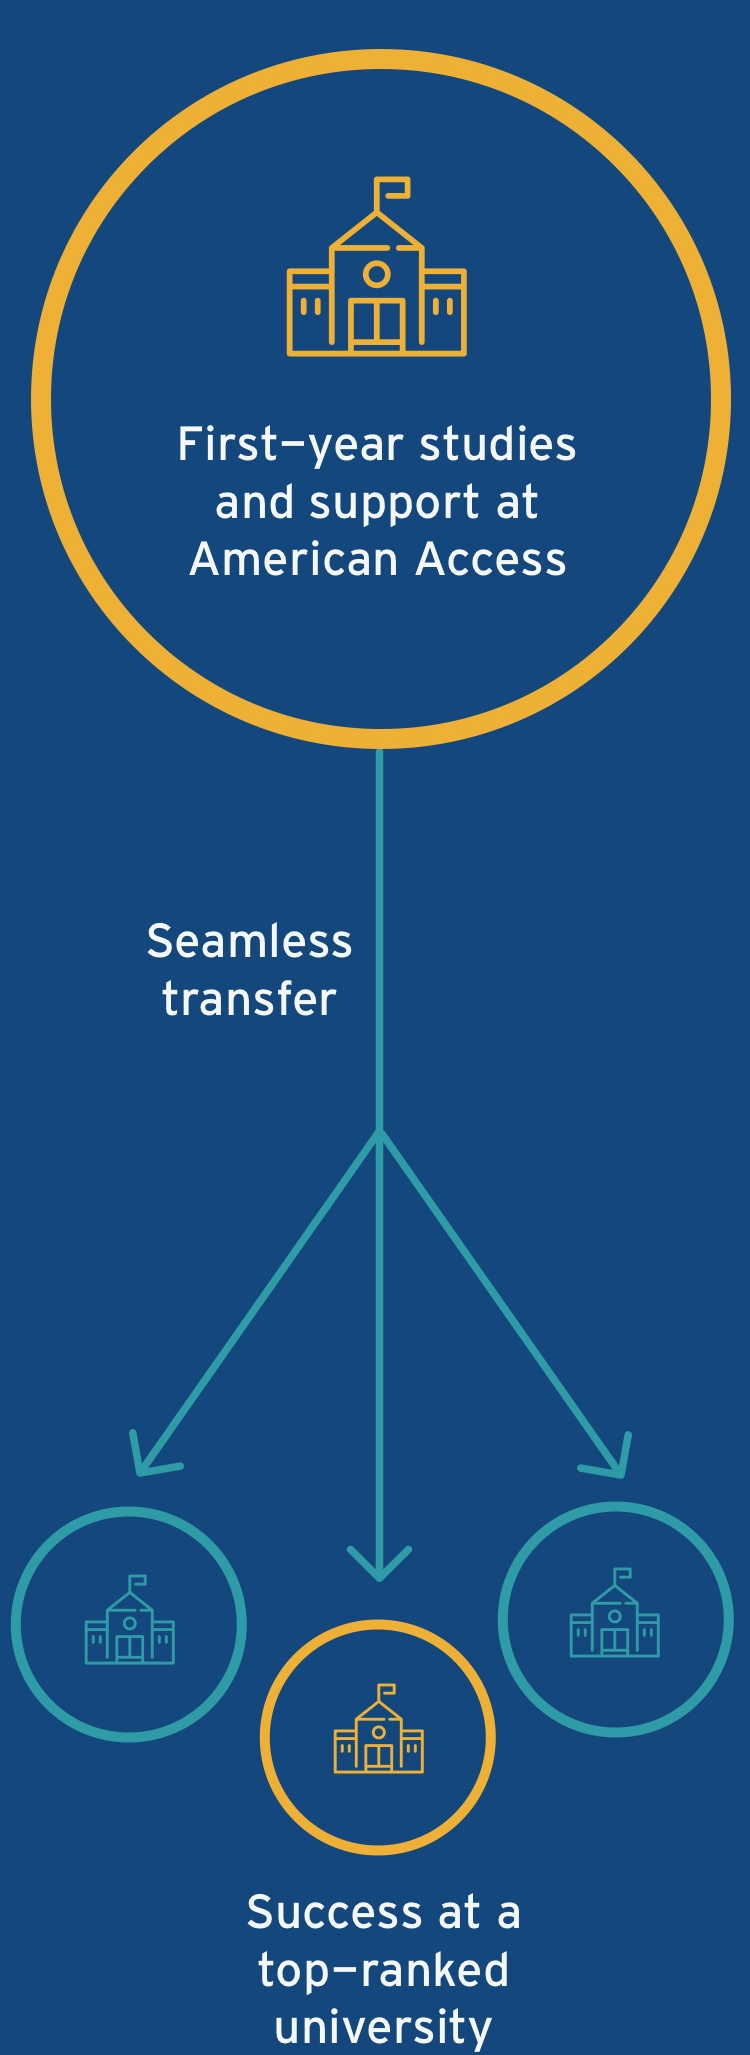
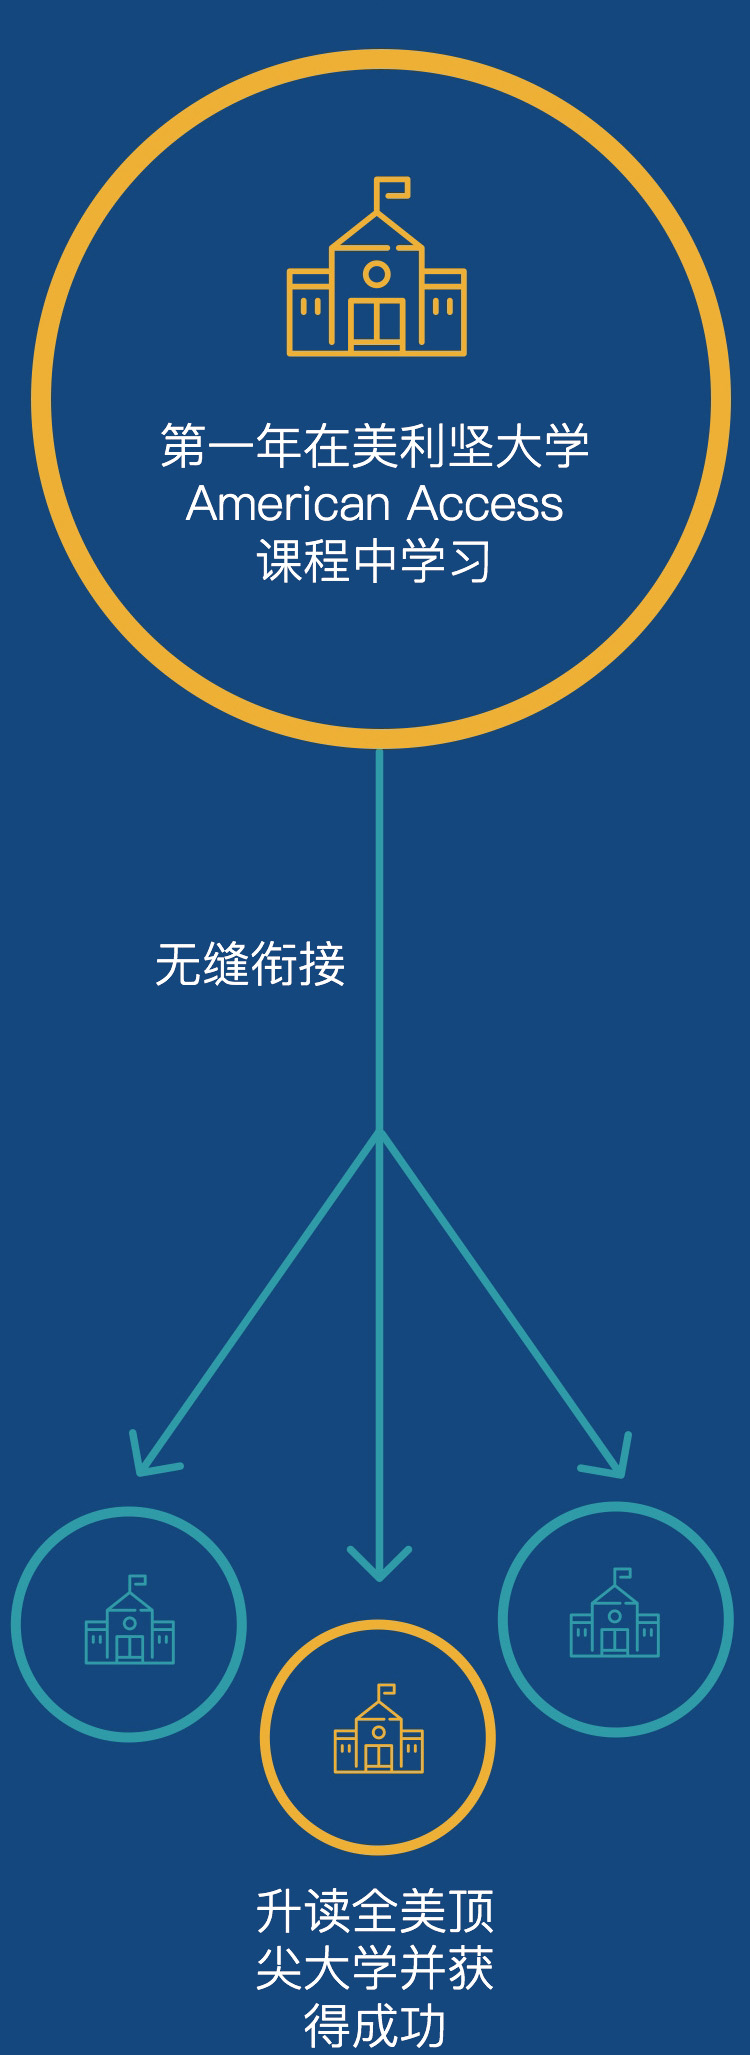
no message

diff --git a/aa/index.html b/aa/index.html
@@ -89,7 +89,8 @@ height="0" width="0" style="display:none;visibility:hidden"></iframe></noscript>
 <li id="menu-item-450" class="menu-item menu-item-type-post_type menu-item-object-page menu-item-450"><a href="get-brochure/index.html">下载国际学生指南</a></li>
 </ul></nav>    </div>
 </section>
-                                    <!-- <section id="header-content" class="container disable-padding">
+
+<section id="header-content" class="container disable-padding">
     <nav id="main-menu" class="main-menu"><ul id="menu-main-menu" class="menu"><li id="menu-item-493" class="menu-item menu-item-type-post_type menu-item-object-page menu-item-home current-menu-item page_item page-item-2 current_page_item menu-item-493"><a href="index.html">Home</a></li>
 <li id="menu-item-175" class="menu-item menu-item-type-post_type menu-item-object-page menu-item-175"><a href="about/index.html">About</a></li>
 <li id="menu-item-239" class="menu-item menu-item-type-post_type menu-item-object-page menu-item-239"><a href="life-in-dc/index.html">Life in DC</a></li>
@@ -99,8 +100,10 @@ height="0" width="0" style="display:none;visibility:hidden"></iframe></noscript>
 <li id="menu-item-363" class="housing menu-item menu-item-type-post_type menu-item-object-page menu-item-363"><a href="housing-dining/index.html">Housing</a></li>
 <li id="menu-item-645" class="welcome menu-item menu-item-type-post_type menu-item-object-page menu-item-645"><a href="before-you-arrive/index.html">Before you arrive</a></li>
 <li id="menu-item-589" class="highlight menu-item menu-item-type-custom menu-item-object-custom menu-item-589"><a target="_blank" href="https://p.widencdn.net/yqyavd/AMU_Access_17_Application_Form_LR">Apply</a></li>
-</ul></nav></section> -->
+</ul></nav></section>
+
             </header>
+
     <header id="mobile-header" class="hidden-lg hidden-md headroom">
     <div class="inner">
         <div class="container">
@@ -141,7 +144,7 @@ height="0" width="0" style="display:none;visibility:hidden"></iframe></noscript>
             <div class="table">
                 <div class="table-cell">
                     <div class="page-header-content">
-                        <h1>American Access</h1>
+                        <h1><br>American Access</h1>
                         							<div class="sep"></div>
                             <h3 class="font-light">从这里起航，成功升读全美名校直接进入全美前100位顶尖大学及精英文理学院。<br />
 美国精英大学转学分项目，专为有志向的国际学生设计。在全美前100位顶尖高校起步，高起点，严要求，寻找最适合你的梦想大学！</h3>
@@ -160,14 +163,30 @@ height="0" width="0" style="display:none;visibility:hidden"></iframe></noscript>
 	</div>
 <div id="es-spacer-590354ee1e4ac" class="es-spacer"><style>#es-spacer-590354ee1e4ac { height: 36px}@media screen and (max-width: 992px) { #es-spacer-590354ee1e4ac { height: 28px} }@media screen and (max-width: 640px) { #es-spacer-590354ee1e4ac { height: 20px} }</style></div></div></div></div></div></div>
 
-<div style="background-color: #14477d; background-repeat: no-repeat; background-position: center center; background-size: cover;" class="section section-large-spacing no-spacing"><div class="container"><div class="row"><div class="column col-sm-12"><div class="column-inner" ><h2 class="h2-size text-align-center white-color">How does the American Access program work?</h2><div class="se-single-image hidden-sm hidden-xs"><img src="wp-content/uploads/2017/03/module-hiw-desktop-notext.jpg" /></div><div class="se-single-image hidden-md hidden-lg contraint-to-480"><img src="wp-content/uploads/2017/03/module-hiw-desktop-mobile-notext.jpg" /></div></div></div></div></div></div>
+<div style="background-color: #14477d; background-repeat: no-repeat; background-position: center center; background-size: cover;" class="section section-large-spacing no-spacing"><div class="container"><div class="row"><div class="column col-sm-12"><div class="column-inner" ><h2 class="h2-size text-align-center white-color">American Access 的升学流程</h2><div class="se-single-image hidden-sm hidden-xs"><img src="wp-content/uploads/2017/03/module-hiw-desktop-notext.jpg" /></div><div class="se-single-image hidden-md hidden-lg contraint-to-480"><img src="wp-content/uploads/2017/03/module-hiw-desktop-mobile-notext.jpg" /></div></div></div></div></div></div>
 
-<div style="background-color: #ffffff; background-repeat: no-repeat; background-position: center center; background-size: cover;" class="section no-spacing no-spacing"><div class="container"><div class="row"><div class="column col-sm-12"><div class="column-inner" ><div id="es-spacer-590354ee1fa6b" class="es-spacer"><style>#es-spacer-590354ee1fa6b { height: 60px}@media screen and (max-width: 992px) { #es-spacer-590354ee1fa6b { height: 30px} }@media screen and (max-width: 640px) { #es-spacer-590354ee1fa6b { height: 20px} }</style></div><h2 class="h2-size text-align-left font-bold brown-color">Your Smart Start: American Access at American University</h2><h5 class="h5-size text-align-left font-light">One of the most important reasons students choose American Access is the program’s host university. Students spend their first year learning from AU’s internationally recognized faculty. All while enjoying the vibrant, global culture of Washington, DC.</h5></div></div></div></div></div>
+<!-- <div style="background-color: #ffffff; background-repeat: no-repeat; background-position: center center; background-size: cover;" class="section no-spacing no-spacing"><div class="container"><div class="row"><div class="column col-sm-12"><div class="column-inner" ><div id="es-spacer-590354ee1fa6b" class="es-spacer"><style>#es-spacer-590354ee1fa6b { height: 60px}@media screen and (max-width: 992px) { #es-spacer-590354ee1fa6b { height: 30px} }@media screen and (max-width: 640px) { #es-spacer-590354ee1fa6b { height: 20px} }</style></div><h2 class="h2-size text-align-left font-bold brown-color">Your Smart Start: American Access at American University</h2><h5 class="h5-size text-align-left font-light">One of the most important reasons students choose American Access is the program’s host university. Students spend their first year learning from AU’s internationally recognized faculty. All while enjoying the vibrant, global culture of Washington, DC.</h5></div></div></div></div></div> -->
 
-<div style="background-color: #ffffff; background-repeat: no-repeat; background-position: center center; background-size: cover;" class="section  gray-color section-medium-spacing no-spacing section-equal-height-columns"><div class="container"><div class="row"><div class="mobile-margin column col-sm-12 col-md-4 column-centered-content"><div class="column-inner" style="background-image: url('wp-content/uploads/2017/03/smart-start-box-1-bg.jpg');" ><div class="table"><div class="table-cell"><div id="es-spacer-590354ee2058d" class="es-spacer"><style>#es-spacer-590354ee2058d { height: 120px}@media screen and (max-width: 992px) { #es-spacer-590354ee2058d { height: 80px} }@media screen and (max-width: 640px) { #es-spacer-590354ee2058d { height: 60px} }</style></div><div class="se-icon-content "><span class="icon-text font-black white-color"><sup>#</sup>74</span><p class="h6-size font-light">Ranked #74 National University<br />
-<em>(U.S. News &amp; World Report, 2017).</em></p></div><div id="es-spacer-590354ee20650" class="es-spacer"><style>#es-spacer-590354ee20650 { height: 120px}@media screen and (max-width: 992px) { #es-spacer-590354ee20650 { height: 80px} }@media screen and (max-width: 640px) { #es-spacer-590354ee20650 { height: 60px} }</style></div></div></div></div></div><div class="mobile-margin column col-sm-12 col-md-4 column-centered-content"><div class="column-inner" style="background-image: url('wp-content/uploads/2017/03/smart-start-box-2-bg.jpg');" ><div class="table"><div class="table-cell"><div id="es-spacer-590354ee20ed5" class="es-spacer"><style>#es-spacer-590354ee20ed5 { height: 120px}@media screen and (max-width: 992px) { #es-spacer-590354ee20ed5 { height: 80px} }@media screen and (max-width: 640px) { #es-spacer-590354ee20ed5 { height: 60px} }</style></div><div class="se-icon-content "><span class="icon-text font-black white-color">144</span><p class="h6-size font-light">International students at American<br />
-University come from 144 countries.</p></div><div id="es-spacer-590354ee20f94" class="es-spacer"><style>#es-spacer-590354ee20f94 { height: 120px}@media screen and (max-width: 992px) { #es-spacer-590354ee20f94 { height: 80px} }@media screen and (max-width: 640px) { #es-spacer-590354ee20f94 { height: 60px} }</style></div></div></div></div></div><div class="mobile-margin column col-sm-12 col-md-4 column-centered-content"><div class="column-inner" style="background-image: url('wp-content/uploads/2017/03/smart-start-box-3-bg.jpg');" ><div class="table"><div class="table-cell"><div id="es-spacer-590354ee2176f" class="es-spacer"><style>#es-spacer-590354ee2176f { height: 120px}@media screen and (max-width: 992px) { #es-spacer-590354ee2176f { height: 80px} }@media screen and (max-width: 640px) { #es-spacer-590354ee2176f { height: 60px} }</style></div><div class="se-icon-content  large-icon"><div class="icon-container"><img class="icon" src="wp-content/uploads/2017/03/icon-ticket.png" /></div><p class="h6-size font-light">Located in Washington, DC, close to<br />
-museums, international dining, theatres, and sports.</p></div><div id="es-spacer-590354ee21d40" class="es-spacer"><style>#es-spacer-590354ee21d40 { height: 120px}@media screen and (max-width: 992px) { #es-spacer-590354ee21d40 { height: 80px} }@media screen and (max-width: 640px) { #es-spacer-590354ee21d40 { height: 60px} }</style></div></div></div></div></div></div></div></div>
+<div style="background-color: #ffffff; background-repeat: no-repeat; background-position: center center; background-size: cover;" class="section no-spacing no-spacing"><div class="container"><div class="row"><div class="column col-sm-12"><div class="column-inner" ><div id="es-spacer-590354ee1fa6b" class="es-spacer"><style>#es-spacer-590354ee1fa6b { height: 60px}@media screen and (max-width: 992px) { #es-spacer-590354ee1fa6b { height: 30px} }@media screen and (max-width: 640px) { #es-spacer-590354ee1fa6b { height: 20px} }</style></div><h2 class="h2-size text-align-left font-bold brown-color">选择 American Access 的理由</h2></div></div></div></div></div>
+
+<div style="background-color: #ffffff; background-repeat: no-repeat; background-position: center center; background-size: cover;" class="section cola_reasons gray-color section-medium-spacing no-spacing section-equal-height-columns"><div class="container"><div class="row">
+
+<!-- <div class="mobile-margin column col-sm-12 col-md-4 column-centered-content"><div class="column-inner" style="background-image: url('wp-content/uploads/2017/03/smart-start-box-1-bg.jpg');" ><div class="table"><div class="table-cell"><div id="es-spacer-590354ee2058d" class="es-spacer"><style>#es-spacer-590354ee2058d { height: 120px}@media screen and (max-width: 992px) { #es-spacer-590354ee2058d { height: 80px} }@media screen and (max-width: 640px) { #es-spacer-590354ee2058d { height: 60px} }</style></div><div class="se-icon-content "><span class="icon-text font-black white-color"><sup>#</sup>74</span><p class="h6-size font-light">Ranked #74 National University<br />
+<em>(U.S. News &amp; World Report, 2017).</em></p></div><div id="es-spacer-590354ee20650" class="es-spacer"><style>#es-spacer-590354ee20650 { height: 120px}@media screen and (max-width: 992px) { #es-spacer-590354ee20650 { height: 80px} }@media screen and (max-width: 640px) { #es-spacer-590354ee20650 { height: 60px} }</style></div></div></div></div></div> -->
+
+<!-- <div class="mobile-margin column col-sm-12 col-md-4 column-centered-content"><div class="column-inner" style="background-image: url('wp-content/uploads/2017/03/smart-start-box-2-bg.jpg');" ><div class="table"><div class="table-cell"><div id="es-spacer-590354ee20ed5" class="es-spacer"><style>#es-spacer-590354ee20ed5 { height: 120px}@media screen and (max-width: 992px) { #es-spacer-590354ee20ed5 { height: 80px} }@media screen and (max-width: 640px) { #es-spacer-590354ee20ed5 { height: 60px} }</style></div><div class="se-icon-content "><span class="icon-text font-black white-color">144</span><p class="h6-size font-light">International students at American<br />
+University come from 144 countries.</p></div><div id="es-spacer-590354ee20f94" class="es-spacer"><style>#es-spacer-590354ee20f94 { height: 120px}@media screen and (max-width: 992px) { #es-spacer-590354ee20f94 { height: 80px} }@media screen and (max-width: 640px) { #es-spacer-590354ee20f94 { height: 60px} }</style></div></div></div></div></div> -->
+
+<!-- <div class="mobile-margin column col-sm-12 col-md-4 column-centered-content"><div class="column-inner" style="background-image: url('wp-content/uploads/2017/03/smart-start-box-3-bg.jpg');" ><div class="table"><div class="table-cell"><div id="es-spacer-590354ee2176f" class="es-spacer"><style>#es-spacer-590354ee2176f { height: 120px}@media screen and (max-width: 992px) { #es-spacer-590354ee2176f { height: 80px} }@media screen and (max-width: 640px) { #es-spacer-590354ee2176f { height: 60px} }</style></div><div class="se-icon-content  large-icon"><div class="icon-container"><img class="icon" src="wp-content/uploads/2017/03/icon-ticket.png" /></div><p class="h6-size font-light">Located in Washington, DC, close to<br />
+museums, international dining, theatres, and sports.</p></div><div id="es-spacer-590354ee21d40" class="es-spacer"><style>#es-spacer-590354ee21d40 { height: 120px}@media screen and (max-width: 992px) { #es-spacer-590354ee21d40 { height: 80px} }@media screen and (max-width: 640px) { #es-spacer-590354ee21d40 { height: 60px} }</style></div></div></div></div></div> -->
+
+<div class="mobile-margin column col-sm-12 col-md-4 column-centered-content"><img src="assets/images/reasons1.jpg"><p>从世界一流大学起航</p></div>
+<div class="mobile-margin column col-sm-12 col-md-4 column-centered-content"><img src="assets/images/reasons2.jpg"><p>获得学术和语言支持</p></div>
+<div class="mobile-margin column col-sm-12 col-md-4 column-centered-content"><img src="assets/images/reasons3.jpg"><p>获得专业申请建议</p></div>
+<div class="mobile-margin column col-sm-12 col-md-4 column-centered-content"><img src="assets/images/reasons4.jpg"><p>得益于流畅的录取流程</p></div>
+<div class="mobile-margin column col-sm-12 col-md-4 column-centered-content"><img src="assets/images/reasons5.jpg"><p>生活在美国首都华盛顿特区</p></div>
+
+</div></div></div>
 
 <div style="background-color: #14477d; background-repeat: no-repeat; background-position: center center; background-size: cover;" class="section section-medium-spacing no-spacing"><div class="container"><div class="row"><div class="column col-sm-12"><div class="column-inner" ><h2 class="h2-size text-align-center white-color">The Benefits of Transferring</h2><h5 class="h5-size text-align-center font-light white-color">Nearly 40 percent of U.S. students transfer to a different university before completing their degree.<sup>***</sup> Why? Because switching schools allows students to find the best university for them. And as an international student, transferring means you can study in different cities to experience more of the U.S.’s rich and diverse culture. </h5><div id="es-spacer-590354ee222db" class="es-spacer"><style>#es-spacer-590354ee222db { height: 40px}@media screen and (max-width: 992px) { #es-spacer-590354ee222db { height: 30px} }@media screen and (max-width: 640px) { #es-spacer-590354ee222db { height: 20px} }</style></div><div class="section-inner section-equal-height-columns" style=""><div class="row"><div class="boxed-se-icon-content column col-sm-4"><div class="column-inner" ><div class="se-icon-content white-color"><div class="icon-container"><img class="icon" src="wp-content/uploads/2017/03/icon-check.png" /></div><h3 class="h6-size font-bold">Improve your GPA and English skills</h3><p class="h6-size font-light">to strengthen your application to other top schools.</p></div></div></div><div class="boxed-se-icon-content column col-sm-4"><div class="column-inner" ><div class="se-icon-content white-color"><div class="icon-container"><img class="icon" src="wp-content/uploads/2017/03/icon-check.png" /></div><h3 class="h6-size font-bold">Experience more of the U.S.</h3><p class="h6-size font-light">by completing your degree at another school.</p></div></div></div><div class="boxed-se-icon-content column col-sm-4"><div class="column-inner" ><div class="se-icon-content white-color"><div class="icon-container"><img class="icon" src="wp-content/uploads/2017/03/icon-check.png" /></div><h3 class="h6-size font-bold">Transfer academic credits </h3><p class="h6-size font-light">from American to your new university.</p></div></div></div></div></div></div></div></div></div></div>
 
@@ -312,8 +331,41 @@ Ethnic Diversity<br />
 <!-- table cola -->
 
 <div style="background-color: #0f2846; background-repeat: no-repeat; background-position: center center; background-size: cover;" class="section section-small-spacing no-spacing"><div class="container"><div class="row"><div class="column col-sm-12 col-lg-4 col-md-4"><div class="column-inner" ><div class="se-button-wrapper button-full-width button-top-medium-spacing button-bottom-medium-spacing"><a class="se-button button-borders-only button-white button-large" href="ask-a-question/index.html" target="" rel="">在线咨询</a></div></div></div><div class="column col-sm-12 col-lg-4 col-md-4"><div class="column-inner" ><div class="se-button-wrapper button-full-width button-top-medium-spacing button-bottom-medium-spacing"><a class="se-button button-solid button-secondary-color button-large" href="apply/index.html" target="" rel="">现在申请</a></div></div></div><div class="column col-sm-12 col-lg-4 col-md-4"><div class="column-inner" ><div class="se-button-wrapper button-full-width button-top-medium-spacing button-bottom-medium-spacing"><a class="se-button button-borders-only button-white button-large" href="get-brochure/index.html" target="" rel="">下载国际学生指南</a></div></div></div></div></div></div>
-                </section>
-    <footer id="main-footer">
+
+</section>
+
+
+<!-- lead form cola -->
+<section class="cola_lead_form" id="lead_form" style="background-image: url(assets/images/lead_form.jpg);">
+    <div class="bg_wrap">
+        <div class="form tab_switch_fade tab_switch">
+            <span class="stripe"><i></i><i></i><i></i><i></i></span>
+            <h2>在线留言</h2>
+            <form id="form">
+                <div class="row">
+                    <input type="text" placeholder="您的姓名" />
+                    <i>*</i>
+                </div>
+                <div class="row">
+                    <input type="text" placeholder="电话号码" />
+                    <i>*</i>
+                </div>
+                <div class="row">
+                    <input type="text" placeholder="电子邮箱" />
+                </div>
+                <div class="row">
+                    <textarea placeholder="留言内容"></textarea>
+                    <i>*</i>
+                </div>
+                <a class="submit" href="javascript:;">提交留言</a>
+            </form>
+        </div>
+    </div>
+</section>
+<!-- lead_form -->
+
+
+<footer id="main-footer">
 		<div class="container">
 			<div class="row">
 				<div class="column-footer col-md-4 hidden-sm hidden-xs">

diff --git a/aa/wp-content/themes/shorelight-education/css/app-ver=4.7.3.css b/aa/wp-content/themes/shorelight-education/css/app-ver=4.7.3.css
@@ -6923,6 +6923,36 @@ table.stacktable.stack-table-card-fix.small-only tr .st-key {
 }
 
 
+/*reasons cola*/
+.cola_reasons .col-md-4 {
+	margin-bottom: 15px;
+	text-align: center;
+}
+.cola_reasons img {
+	width: 100%;
+	max-width: 350px;
+}
+.cola_reasons p {
+	margin-top: 10px;
+	font-size: 16px;
+}
+@media (max-width: 767px) {
+	.cola_reasons .col-md-4 {
+		width: 100%;
+	}
+}
+@media (min-width: 768px) and (max-width: 1199px) {
+	.cola_reasons .col-md-4 {
+		width: 33.33%;
+	}
+}
+@media (min-width: 1200px) {
+	.cola_reasons .col-md-4 {
+		width: 20%;
+	}
+}
+
+
 /*schools cola*/
 .cola_schools {
 	background: #F5F7F7;
@@ -7057,3 +7087,124 @@ table.stacktable.stack-table-card-fix.small-only tr .st-key {
 		width: 100px;
 	}
 }
+
+
+/*leadform cola*/
+.cola_lead_form {
+  background-repeat: no-repeat;
+  background-position: center center;
+  background-size: cover; }
+  .cola_lead_form .bg_wrap {
+    padding: 50px 20px;
+    background: rgba(250, 250, 250, 0.9); }
+    .cola_lead_form .bg_wrap .form {
+      overflow: hidden;
+      background: #fff;
+      border-radius: 4px; }
+      .cola_lead_form .bg_wrap .form .stripe {
+        display: -webkit-flex;
+        display: flex;
+        -webkit-justify-content: center;
+        justify-content: center;
+        -webkit-flex-flow: row wrap;
+        flex-flow: row wrap; }
+        .cola_lead_form .bg_wrap .form .stripe i {
+          -webkit-flex: 1 1 25%;
+          flex: 1 1 25%;
+          display: block;
+          height: 5px; }
+          .cola_lead_form .bg_wrap .form .stripe i:nth-child(odd) {
+            background-color: #CA0319; }
+          .cola_lead_form .bg_wrap .form .stripe i:nth-child(even) {
+            background-color: #14477D; }
+      .cola_lead_form .bg_wrap .form h2 {
+        text-align: center;
+        color: #14477D; }
+      .cola_lead_form .bg_wrap .form .row {
+        margin: 12px 20px;
+        border: 1px solid #ccc;
+        border-radius: 4px;
+    	position: relative; }
+        .cola_lead_form .bg_wrap .form .row input {
+          box-sizing: content-box;
+          width: calc(100% - 20px);
+          height: 20px;
+          line-height: 20px;
+          padding: 6px 10px;
+          border: none;
+          background: none;
+          font-size: 14px;
+          color: #333;
+          position: relative;
+          z-index: 2; }
+        .cola_lead_form .bg_wrap .form .row textarea {
+          display: block;
+          box-sizing: content-box;
+          width: calc(100% - 20px);
+          height: 80px;
+          line-height: 1.2;
+          padding: 6px 10px;
+          border: none;
+          background: none;
+          font-size: 14px;
+          color: #333;
+          position: relative;
+          z-index: 2; }
+        .cola_lead_form .bg_wrap .form .row select {
+          box-sizing: content-box;
+          width: calc(100% - 20px);
+          height: 19px;
+          line-height: 19px;
+          padding: 6px 10px;
+          border: 0;
+          background: transparent;
+          appearance: none;
+          -moz-appearance: none;
+          -webkit-appearance: none;
+          font-size: 14px;
+          color: #333;
+          position: relative;
+          z-index: 2; }
+        .cola_lead_form .bg_wrap .form .row i {
+          color: #C90319;
+          font-size: 12px;
+          font-style: normal;
+          position: absolute;
+      	  left: -12px;
+      	  top: 4px;
+      	  }
+      .cola_lead_form .bg_wrap .form .submit {
+        display: block;
+        width: 210px;
+        height: 40px;
+        line-height: 40px;
+        margin: 25px auto;
+        background: #CA0319;
+        border-radius: 4px;
+        font-size: 16px;
+        color: #fff;
+        text-align: center; }
+
+@media only screen and (max-width: 767px) {
+  .cola_lead_form .form h2 {
+    margin: 20px 0;
+    font-size: 16px; } }
+@media only screen and (min-width: 768px) {
+  .cola_lead_form .form {
+    max-width: 380px;
+    margin: 0 auto; }
+    .cola_lead_form .form h2 {
+      margin: 30px 0;
+      font-size: 24px; }
+    .cola_lead_form .form .row input, .cola_lead_form .form .row select {
+      padding: 11px 15px; }
+    .cola_lead_form .form .submit {
+      -webkit-transition: background-color 0.5s cubic-bezier(0.15, 0.95, 0.41, 0.95);
+      transition: background-color 0.5s cubic-bezier(0.15, 0.95, 0.41, 0.95);
+      background-color: #CA0319; }
+      .cola_lead_form .form .submit:visited {
+        background-color: #CA0319; }
+      .cola_lead_form .form .submit:hover {
+        background-color: #ff2256; }
+      .cola_lead_form .form .submit:active {
+        background-color: #CA0319; } }
